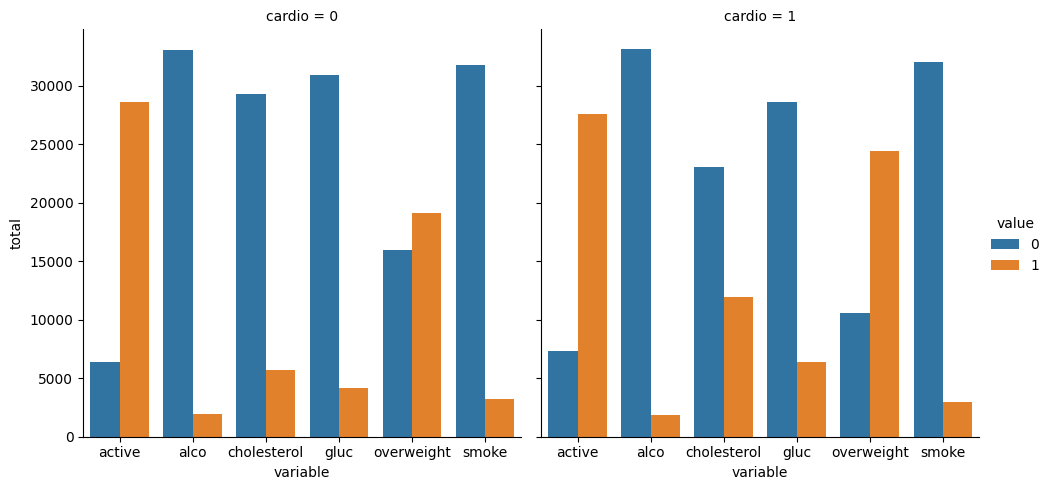
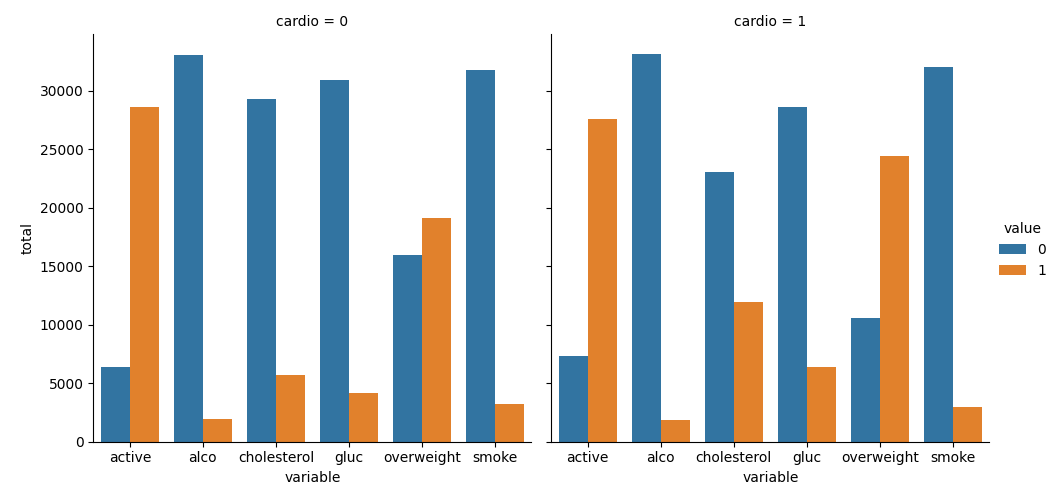
troubleshot and cleaned any errors from test file

diff --git a/medical_data_visualizer.py b/medical_data_visualizer.py
@@ -24,7 +24,7 @@ def draw_cat_plot():
     #print(df_cat)
     
     # 8
-    fig = sns.catplot(data=df_cat, x="variable", y="total", hue="value", col="cardio", kind="bar")
+    fig = sns.catplot(data=df_cat, x="variable", y="total", hue="value", col="cardio", kind="bar").fig
 
 
 
@@ -40,7 +40,7 @@ def draw_heat_map():
                      &(df['height'] >= df['height'].quantile(0.025))
                      &(df['height'] <= df['height'].quantile(0.975))
                      &(df['weight'] >= df['weight'].quantile(0.025))
-                     &(df['weight'] >= df['weight'].quantile(0.975))]
+                     &(df['weight'] <= df['weight'].quantile(0.975))]
 
     # 12
     corr = df_heat.corr()

diff --git a/main.py b/main.py
@@ -7,4 +7,4 @@ medical_data_visualizer.draw_cat_plot()
 medical_data_visualizer.draw_heat_map()
 
 # Run unit tests automatically
-#main(module='test_module', exit=False)
+main(module='test_module', exit=False)
